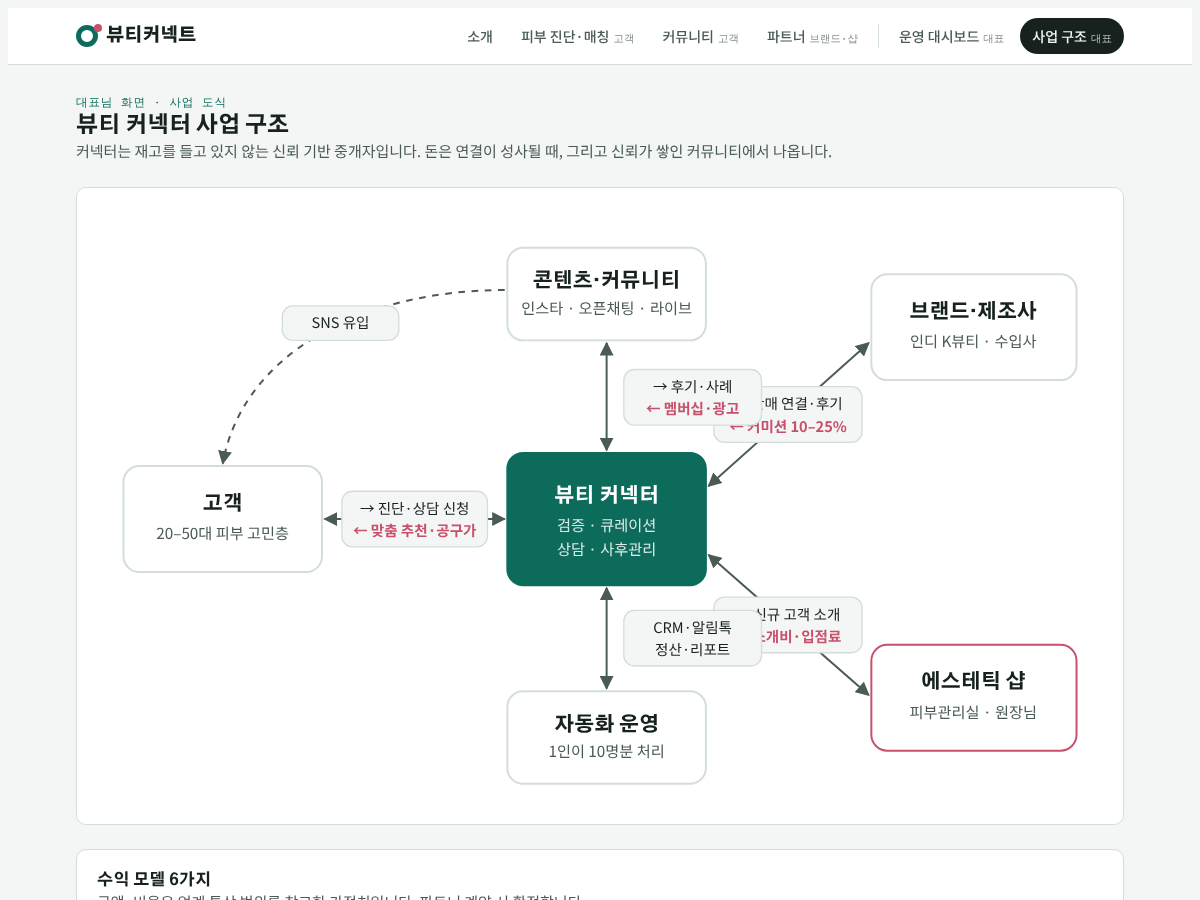
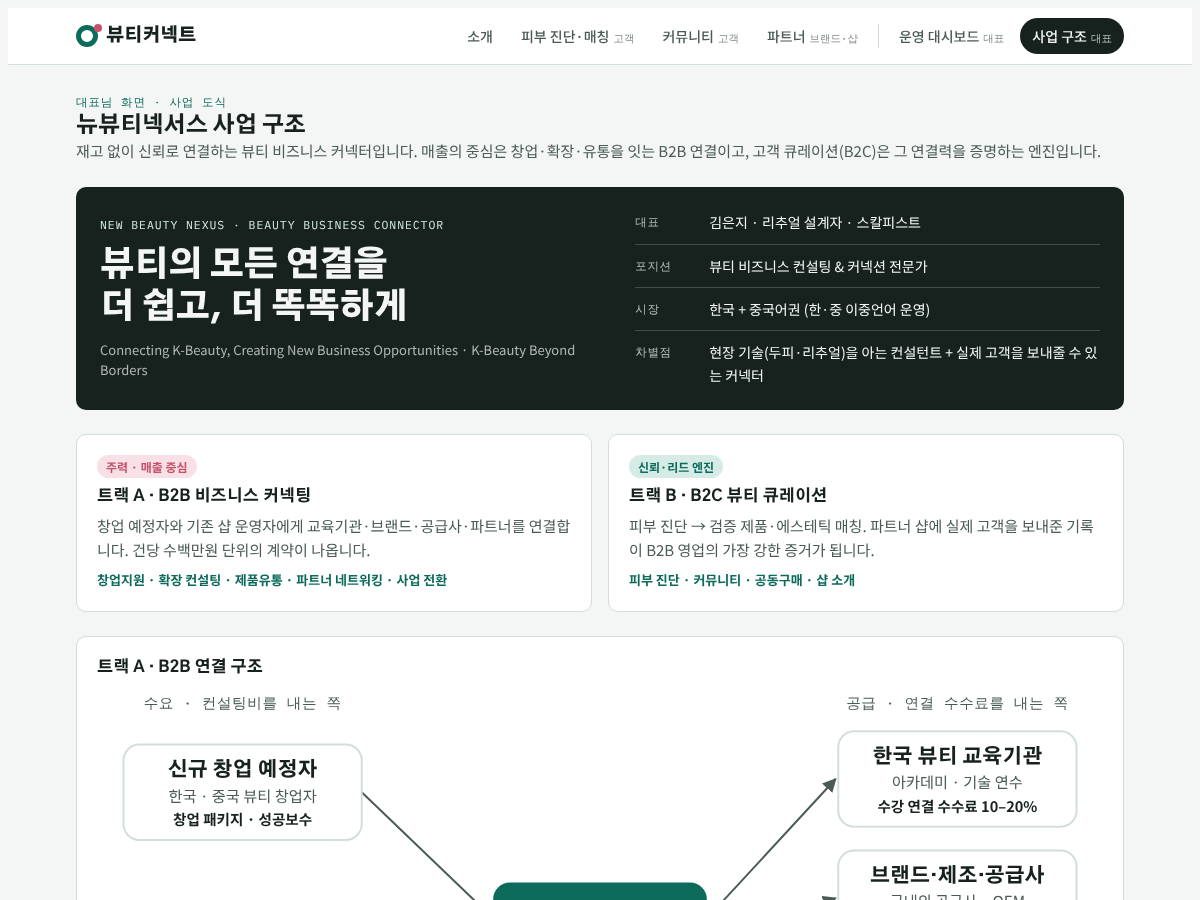
Add New Beauty Nexus B2B planning: brand, two-track model, service lines, China track
- Business model tab: brand band, B2B connection diagram, five service lines productized, B2B journey, signature scalp ritual program, China/global track, B2B revenue in simulator, roadmap and regulatory updates
- docs/business-plan.md: matching sections 0 and 10

Claude-Session: https://claude.ai/code/session_01TAYZkcKbPcZukKzyw7i4V3

diff --git a/mvp/index.html b/mvp/index.html
@@ -171,6 +171,23 @@ td select { padding: 6px 8px; width: auto; }
 .phase ul { margin: 0; padding-left: 18px; font-size: 14px; display: grid; gap: 4px; }
 .phase .kpi-line { font-family: var(--f-mono); font-size: 12px; color: var(--ink-2); border-top: 1px dashed var(--line); padding-top: 8px; }
 .risk li { margin-bottom: 6px; }
+.brandband { display: grid; grid-template-columns: 1.1fr 1fr; gap: 24px; padding: 24px; border-radius: var(--r); background: var(--ink); color: var(--bg); }
+.brandband .muted { color: color-mix(in srgb, var(--bg) 70%, var(--ink)); font-size: 13px; }
+.brandband .eyebrow { color: var(--accent-soft); }
+.bb-main { display: grid; gap: 10px; align-content: center; min-width: 0; }
+.bb-slogan { font-family: var(--f-display); font-weight: 900; font-size: clamp(24px, 3.4vw, 34px); line-height: 1.25; letter-spacing: -0.02em; text-wrap: balance; }
+.bb-facts { margin: 0; display: grid; gap: 10px; min-width: 0; }
+.bb-facts div { display: grid; grid-template-columns: 64px 1fr; gap: 10px; padding-bottom: 10px; border-bottom: 1px solid color-mix(in srgb, var(--bg) 20%, var(--ink)); }
+.bb-facts div:last-child { border-bottom: 0; padding-bottom: 0; }
+.bb-facts dt { font-family: var(--f-mono); font-size: 11.5px; letter-spacing: .06em; opacity: .7; padding-top: 2px; }
+.bb-facts dd { margin: 0; font-size: 14px; }
+.track { display: grid; gap: 8px; align-content: start; }
+.track .pill { justify-self: start; }
+.track .tk { font-size: 13px; font-weight: 700; color: var(--accent); }
+.colhd { font-family: var(--f-mono); font-size: 11px; fill: var(--ink-2); letter-spacing: .04em; }
+.n .mny { font-size: 11px; fill: var(--rose); font-weight: 700; font-family: var(--f-body); }
+.steps li .pill { margin-top: 8px; }
+@media (max-width: 760px) { .brandband { grid-template-columns: 1fr; padding: 18px; } }
 .risk { padding-left: 18px; margin: 0; }
 
 @media (max-width: 760px) {
@@ -372,11 +389,120 @@ td select { padding: 6px 8px; width: auto; }
 <section class="view" id="v-model" hidden>
   <div>
     <p class="eyebrow">대표님 화면 · 사업 도식</p>
-    <h2>뷰티 커넥터 사업 구조</h2>
-    <p class="muted">커넥터는 재고를 들고 있지 않는 신뢰 기반 중개자입니다. 돈은 연결이 성사될 때, 그리고 신뢰가 쌓인 커뮤니티에서 나옵니다.</p>
+    <h2>뉴뷰티넥서스 사업 구조</h2>
+    <p class="muted">재고 없이 신뢰로 연결하는 뷰티 비즈니스 커넥터입니다. 매출의 중심은 창업·확장·유통을 잇는 B2B 연결이고, 고객 큐레이션(B2C)은 그 연결력을 증명하는 엔진입니다.</p>
+  </div>
+
+  <div class="brandband">
+    <div class="bb-main">
+      <p class="eyebrow">NEW BEAUTY NEXUS · Beauty Business Connector</p>
+      <p class="bb-slogan">뷰티의 모든 연결을<br>더 쉽고, 더 똑똑하게</p>
+      <p class="muted">Connecting K-Beauty, Creating New Business Opportunities · K-Beauty Beyond Borders</p>
+    </div>
+    <dl class="bb-facts">
+      <div><dt>대표</dt><dd>김은지 · 리추얼 설계자 · 스칼피스트</dd></div>
+      <div><dt>포지션</dt><dd>뷰티 비즈니스 컨설팅 &amp; 커넥션 전문가</dd></div>
+      <div><dt>시장</dt><dd>한국 + 중국어권 (한·중 이중언어 운영)</dd></div>
+      <div><dt>차별점</dt><dd>현장 기술(두피·리추얼)을 아는 컨설턴트 + 실제 고객을 보내줄 수 있는 커넥터</dd></div>
+    </dl>
+  </div>
+
+  <div class="grid g2">
+    <div class="panel track">
+      <span class="pill r">주력 · 매출 중심</span>
+      <h3>트랙 A · B2B 비즈니스 커넥팅</h3>
+      <p class="muted">창업 예정자와 기존 샵 운영자에게 교육기관·브랜드·공급사·파트너를 연결합니다. 건당 수백만원 단위의 계약이 나옵니다.</p>
+      <p class="tk">창업지원 · 확장 컨설팅 · 제품유통 · 파트너 네트워킹 · 사업 전환</p>
+    </div>
+    <div class="panel track">
+      <span class="pill g">신뢰·리드 엔진</span>
+      <h3>트랙 B · B2C 뷰티 큐레이션</h3>
+      <p class="muted">피부 진단 → 검증 제품·에스테틱 매칭. 파트너 샵에 실제 고객을 보내준 기록이 B2B 영업의 가장 강한 증거가 됩니다.</p>
+      <p class="tk">피부 진단 · 커뮤니티 · 공동구매 · 샵 소개</p>
+    </div>
+  </div>
+
+  <div class="panel diagram" aria-label="B2B 연결 구조 도식">
+    <h3 style="margin-bottom:12px">트랙 A · B2B 연결 구조</h3>
+    <svg viewBox="0 0 760 390" role="img" aria-labelledby="b2b-t">
+      <title id="b2b-t">창업 예정자, 기존 샵, 전환 희망 샵을 교육기관, 브랜드·공급사, 에스테틱·병원 파트너, 해외 바이어·인수 희망자와 연결하는 구조</title>
+      <defs><marker id="ah2" viewBox="0 0 10 10" refX="9" refY="5" markerWidth="7" markerHeight="7" orient="auto-start-reverse"><path class="arrowhead" d="M0,0 L10,5 L0,10 z"/></marker></defs>
+      <text class="colhd" x="110" y="14" text-anchor="middle">수요 · 컨설팅비를 내는 쪽</text>
+      <text class="colhd" x="650" y="14" text-anchor="middle">공급 · 연결 수수료를 내는 쪽</text>
+      <g transform="translate(0,22)">
+        <line class="edge" x1="200" y1="56" x2="298" y2="150" marker-end="url(#ah2)"/>
+        <line class="edge" x1="200" y1="185" x2="298" y2="185" marker-end="url(#ah2)"/>
+        <line class="edge" x1="200" y1="314" x2="298" y2="220" marker-end="url(#ah2)"/>
+        <line class="edge" x1="462" y1="150" x2="558" y2="46" marker-start="url(#ah2)" marker-end="url(#ah2)"/>
+        <line class="edge" x1="462" y1="172" x2="558" y2="136" marker-start="url(#ah2)" marker-end="url(#ah2)"/>
+        <line class="edge" x1="462" y1="198" x2="558" y2="226" marker-start="url(#ah2)" marker-end="url(#ah2)"/>
+        <line class="edge" x1="462" y1="220" x2="558" y2="316" marker-start="url(#ah2)" marker-end="url(#ah2)"/>
+        <g class="n"><rect x="20" y="20" width="180" height="72" rx="12"/><text class="t" x="110" y="44" text-anchor="middle">신규 창업 예정자</text><text class="s" x="110" y="63" text-anchor="middle">한국 · 중국 뷰티 창업자</text><text class="mny" x="110" y="81" text-anchor="middle">창업 패키지 · 성공보수</text></g>
+        <g class="n"><rect x="20" y="149" width="180" height="72" rx="12"/><text class="t" x="110" y="173" text-anchor="middle">기존 샵·매장 운영자</text><text class="s" x="110" y="192" text-anchor="middle">신규 수익원이 필요한 원장님</text><text class="mny" x="110" y="210" text-anchor="middle">확장 자문 · 제품 도입</text></g>
+        <g class="n"><rect x="20" y="278" width="180" height="72" rx="12"/><text class="t" x="110" y="302" text-anchor="middle">전환·정리 고민 샵</text><text class="s" x="110" y="321" text-anchor="middle">운영난 · 업종 전환 · 폐업</text><text class="mny" x="110" y="339" text-anchor="middle">전환 진단 · 인수자 연결</text></g>
+        <g class="n c"><rect x="300" y="125" width="160" height="120" rx="12"/><text class="t" x="380" y="160" text-anchor="middle">NEW BEAUTY</text><text class="t" x="380" y="180" text-anchor="middle">NEXUS</text><text class="s" x="380" y="204" text-anchor="middle">진단 → 설계 → 연결</text><text class="s" x="380" y="222" text-anchor="middle">→ 90일 사후관리</text></g>
+        <g class="n"><rect x="560" y="10" width="180" height="72" rx="12"/><text class="t" x="650" y="34" text-anchor="middle">한국 뷰티 교육기관</text><text class="s" x="650" y="53" text-anchor="middle">아카데미 · 기술 연수</text><text class="mny" x="650" y="71" text-anchor="middle">수강 연결 수수료 10–20%</text></g>
+        <g class="n"><rect x="560" y="100" width="180" height="72" rx="12"/><text class="t" x="650" y="124" text-anchor="middle">브랜드·제조·공급사</text><text class="s" x="650" y="143" text-anchor="middle">국내외 공급사 · OEM</text><text class="mny" x="650" y="161" text-anchor="middle">유통 연결 3–8% · 대리점</text></g>
+        <g class="n"><rect x="560" y="190" width="180" height="72" rx="12"/><text class="t" x="650" y="214" text-anchor="middle">에스테틱·병원 파트너</text><text class="s" x="650" y="233" text-anchor="middle">협업 · 공동 프로모션</text><text class="mny" x="650" y="251" text-anchor="middle">제휴 연회비 (환자 소개비 X)</text></g>
+        <g class="n r"><rect x="560" y="280" width="180" height="72" rx="12"/><text class="t" x="650" y="304" text-anchor="middle">해외 바이어·인수자</text><text class="s" x="650" y="323" text-anchor="middle">중국 파트너 · 영업 인수 희망</text><text class="mny" x="650" y="341" text-anchor="middle">수출 중개 · 매칭 성공보수</text></g>
+      </g>
+    </svg>
+  </div>
+
+  <div class="panel rev" style="display:grid;gap:12px">
+    <div><h3>5대 서비스 라인 · 상품화</h3><p class="muted">명함의 다섯 가지 업무를 팔 수 있는 상품으로 바꿨습니다. 가격은 가정치이며 첫 3건의 계약으로 검증합니다.</p></div>
+    <div class="tablewrap">
+      <table>
+        <thead><tr><th>서비스</th><th>대상</th><th>상품 구성</th><th>가격 (가정)</th><th>자동화 포인트</th></tr></thead>
+        <tbody>
+          <tr><td><strong>뷰티 창업지원</strong></td><td>신규 창업 예정자 (한국·중국)</td><td>상권·콘셉트 진단, 사업계획, 교육기관·공급사 매칭, 오픈 런칭</td><td class="num">패키지 300–1,500만원 + 매칭 성공보수</td><td>사전 진단 설문 → 견적·제안서 초안 자동 생성</td></tr>
+          <tr><td><strong>사업 확장 컨설팅</strong></td><td>기존 샵 운영자</td><td>신규 아이템(두피·리추얼 등) 도입, 수익모델 재설계, 객단가·재방문 개선</td><td class="num">월 자문 50–150만원 (3개월~)</td><td>월간 KPI 리포트 자동 발송</td></tr>
+          <tr><td><strong>제품 유통 연결</strong></td><td>브랜드·공급사 ↔ 샵·해외 바이어</td><td>소싱, 샘플링, 납품·대리점 계약 중개</td><td class="num">거래액 3–8% 또는 대리점 계약 수수료</td><td>샘플 신청 → 발주 시트 → 정산 자동</td></tr>
+          <tr><td><strong>파트너 네트워킹</strong></td><td>에스테틱·병원·브랜드</td><td>정기 네트워킹 모임, 협업 매칭, 공동 프로모션</td><td class="num">연회비 30–100만원 + 행사 참가비</td><td>멤버 디렉토리 · 행사 신청·리마인드 자동</td></tr>
+          <tr><td><strong>사업 전환 지원</strong></td><td>운영난·전환 희망 샵</td><td>운영 진단, 업종 전환 설계, 영업 양도양수 희망자 연결</td><td class="num">진단 50만원~ + 연결 성공보수</td><td>매물·인수 희망자 DB 조건 자동 매칭</td></tr>
+        </tbody>
+      </table>
+    </div>
+  </div>
+
+  <div class="panel grid" style="gap:12px">
+    <div><h3>B2B 고객 여정</h3><p class="muted">배너 QR·위챗 문의부터 재계약까지. 초록 표시 단계는 사람 손 없이 돌아갑니다.</p></div>
+    <ol class="steps" style="grid-template-columns:repeat(auto-fit,minmax(140px,1fr))">
+      <li><h3>문의</h3><p class="muted">명함 QR · 위챗 · 인스타 → 문의폼</p><span class="pill g">자동 접수</span></li>
+      <li><h3>사전 진단</h3><p class="muted">예산·지역·경험·목표 10문항</p><span class="pill g">자동 발송</span></li>
+      <li><h3>진단 미팅 30분</h3><p class="muted">대표님 핵심 업무</p><span class="pill r">직접</span></li>
+      <li><h3>제안서·계약</h3><p class="muted">AI 초안 → 검토 → 전자계약·착수금</p><span class="pill g">반자동</span></li>
+      <li><h3>실행·연결</h3><p class="muted">교육기관·공급사·파트너 매칭</p><span class="pill r">직접</span></li>
+      <li><h3>90일 사후관리</h3><p class="muted">30·60·90일 체크인, 후기·추천 요청</p><span class="pill g">자동</span></li>
+    </ol>
+  </div>
+
+  <div class="grid g2" style="align-items:start">
+    <div class="panel grid" style="gap:10px">
+      <span class="pill r" style="justify-self:start">확장성 1순위</span>
+      <h3>시그니처 상품: K-두피 리추얼 프로그램</h3>
+      <p class="muted">대표님의 스칼피스트·리추얼 설계 전문성을 매뉴얼로 표준화해, 시간을 파는 컨설팅에서 복제되는 상품으로 바꿉니다.</p>
+      <ul class="risk">
+        <li><strong>샵 도입 패키지</strong>: 2일 교육 + 시술 매뉴얼 + 상담 스크립트 + 제품 키트 (도입비 + 키트 재구매)</li>
+        <li><strong>인증 테라피스트 과정</strong>: 온라인 이론 + 오프라인 실습, 수료 인증 (수강료)</li>
+        <li><strong>파트너샵 라이선스</strong>: 국내·중국 샵에 프로그램명·매뉴얼 사용권 (월 로열티)</li>
+        <li><strong>콘텐츠</strong>: 리추얼 시연 영상이 B2C 유입과 B2B 영업 자료를 동시에 해결</li>
+      </ul>
+    </div>
+    <div class="panel grid" style="gap:10px">
+      <span class="pill" style="justify-self:start">K-Beauty Beyond Borders</span>
+      <h3>중국·글로벌 트랙</h3>
+      <ul class="risk">
+        <li><strong>1단계 채널</strong>: 위챗 공식계정·샤오홍슈, 한·중 소개서와 문의 응대 템플릿 (이미 이중언어 배너 보유)</li>
+        <li><strong>2단계 한국 연수 투어</strong>: 교육기관 수강 + 샵 견학 + 공급사 미팅을 묶은 3–5일 패키지 (1인 300–600만원 가정)</li>
+        <li><strong>3단계 현지화</strong>: 중국 파트너샵 라이선스, K-두피 리추얼 키트 수출, 현지 에이전트와 수익 분배</li>
+        <li><strong>자동화</strong>: AI 번역으로 한·중 상담 기록·제안서 동시 작성, 시차 대응 자동응답</li>
+      </ul>
+    </div>
   </div>
 
   <div class="panel diagram" aria-label="생태계 도식">
+    <h3 style="margin-bottom:12px">트랙 B · B2C 큐레이션 구조</h3>
     <svg viewBox="0 0 760 450" role="img" aria-labelledby="eco-t">
       <title id="eco-t">고객, 커넥터, 브랜드, 에스테틱 샵, 콘텐츠, 자동화 운영 사이의 흐름</title>
       <defs>
@@ -407,7 +533,7 @@ td select { padding: 6px 8px; width: auto; }
   </div>
 
   <div class="panel rev" style="display:grid;gap:12px">
-    <div><h3>수익 모델 6가지</h3><p class="muted">금액·비율은 업계 통상 범위를 참고한 가정치입니다. 파트너 계약 시 확정합니다.</p></div>
+    <div><h3>트랙 B 수익 모델</h3><p class="muted">트랙 B(큐레이션) 기준입니다. 금액·비율은 업계 통상 범위를 참고한 가정치이며 파트너 계약 시 확정합니다.</p></div>
     <div class="tablewrap">
       <table>
         <thead><tr><th>수익원</th><th>누가 내나</th><th>구조 (가정)</th><th>시작 시점</th><th>자동화 포인트</th></tr></thead>
@@ -443,6 +569,8 @@ td select { padding: 6px 8px; width: auto; }
       <label class="f" for="s-rate">평균 수수료율 (%)<input type="text" inputmode="numeric" id="s-rate" value="15"></label>
       <label class="f" for="s-mem">유료 멤버 (명)<input type="text" inputmode="numeric" id="s-mem" value="80"></label>
       <label class="f" for="s-par">유료 파트너 (곳)<input type="text" inputmode="numeric" id="s-par" value="8"></label>
+      <label class="f" for="s-b2b">B2B 컨설팅·연결 계약 (건)<input type="text" inputmode="numeric" id="s-b2b" value="2"></label>
+      <label class="f" for="s-b2bfee">B2B 평균 계약액 (원)<input type="text" inputmode="numeric" id="s-b2bfee" value="3000000"></label>
     </div>
     <div class="kpis" id="sim-out"></div>
   </div>
@@ -451,17 +579,17 @@ td select { padding: 6px 8px; width: auto; }
     <h3>확장 로드맵</h3>
     <div class="road">
       <div class="phase"><span class="eyebrow">0단계 · 0–1개월</span><h3>노코드 검증</h3>
-        <ul><li>인스타 + 카카오 채널 개설</li><li>구글폼 진단 → 노션 CRM</li><li>브랜드 10개 · 샵 5곳 확보</li><li>오픈채팅 커뮤니티 시작</li></ul>
-        <p class="kpi-line">리드 100 · 매칭 20 · 후기 10</p></div>
+        <ul><li>한·중 소개서 + 명함 QR → 문의폼</li><li>구글폼 진단 → 노션 CRM</li><li>브랜드 10개 · 샵 5곳 · 교육기관 3곳 확보</li><li>창업·확장 무료 진단 미팅 10건</li></ul>
+        <p class="kpi-line">B2B 계약 2 · 리드 100 · 매칭 20</p></div>
       <div class="phase"><span class="eyebrow">1단계 · 2–4개월</span><h3>MVP 웹 + 자동화</h3>
-        <ul><li>이 MVP를 실서비스로 (공유 DB)</li><li>알림톡·정산 자동화</li><li>월 1회 공동구매</li><li>커미션·소개비 매출 시작</li></ul>
-        <p class="kpi-line">월 매출 300만 · 재구매 30%</p></div>
+        <ul><li>이 MVP를 실서비스로 (공유 DB)</li><li>제안서·계약·정산 자동화</li><li>K-두피 리추얼 매뉴얼화 · 파일럿 샵 2곳</li><li>월 1회 공동구매</li></ul>
+        <p class="kpi-line">월 매출 800만 · B2B 월 2건</p></div>
       <div class="phase"><span class="eyebrow">2단계 · 5–9개월</span><h3>커뮤니티 유료화</h3>
-        <ul><li>고객 멤버십 · 파트너 구독</li><li>월 2회 라이브 커머스</li><li>원장님 대상 마케팅 클래스</li><li>큐레이션 박스 정기배송</li></ul>
-        <p class="kpi-line">유료 멤버 300 · 파트너 20</p></div>
+        <ul><li>파트너 네트워킹 정기 모임 (분기)</li><li>리추얼 도입 패키지 · 인증 과정 판매</li><li>위챗·샤오홍슈 개설, 한국 연수 투어 1회</li><li>고객 멤버십 · 파트너 구독</li></ul>
+        <p class="kpi-line">도입 샵 10 · 파트너 20 · 투어 1회</p></div>
       <div class="phase"><span class="eyebrow">3단계 · 10–18개월</span><h3>네트워크 확장</h3>
-        <ul><li>커넥터 양성 과정 → 지역 커넥터 네트워크</li><li>PB 제품 (OEM/ODM)</li><li>K뷰티 해외 바이어 연결</li><li>트렌드 데이터 리포트 판매</li></ul>
-        <p class="kpi-line">커넥터 10명 · 지역 5곳</p></div>
+        <ul><li>중국 파트너샵 라이선스 · 리추얼 키트 수출</li><li>커넥터 양성 → 지역·해외 커넥터 네트워크</li><li>PB 제품 (OEM/ODM)</li><li>양도양수 매칭 DB 정식 운영</li></ul>
+        <p class="kpi-line">라이선스 샵 10 · 커넥터 10명</p></div>
     </div>
   </div>
 
@@ -473,6 +601,10 @@ td select { padding: 6px 8px; width: auto; }
       <li><strong>추천·보증 표시</strong>: 커미션·협찬이 있는 콘텐츠는 "광고", "제휴" 문구를 첫머리에 표시합니다 (공정위 지침).</li>
       <li><strong>통신판매</strong>: 공동구매를 직접 받으면 통신판매업 신고가 필요하고, 중개만 하면 통신판매중개자 고지 의무가 있습니다.</li>
       <li><strong>개인정보</strong>: 진단 결과를 샵에 넘길 때 제3자 제공 동의를 따로 받습니다. 이 MVP 폼에 문구를 넣어 두었습니다.</li>
+      <li><strong>병원 네트워킹</strong>: 병원과의 제휴·창업 컨설팅·제품 공급은 가능하지만, 환자를 보내고 건당 소개비를 받는 구조는 피합니다. 중국 고객의 한국 시술 연결을 하려면 외국인환자 유치업 등록이 먼저입니다.</li>
+      <li><strong>중국 수출</strong>: 중국에 화장품을 팔려면 NMPA 등록·비안(备案)이 필요합니다. 등록을 마친 브랜드부터 연결합니다.</li>
+      <li><strong>양도양수 연결</strong>: 영업(시설·고객·노하우) 양도 중개는 가능하지만, 상가 임대차·부동산 중개에 해당하는 부분은 공인중개사와 협업합니다.</li>
+      <li><strong>컨설팅 계약</strong>: 성과 보장 문구를 쓰지 말고, 범위·착수금·성공보수 조건을 서면 계약으로 남깁니다. 해외 계약은 통화·분쟁 해결 조항을 넣습니다.</li>
     </ul>
   </div>
 </section>
@@ -697,17 +829,17 @@ td select { padding: 6px 8px; width: auto; }
   });
 
   /* ---------- 시뮬레이터 ---------- */
-  const simIds = ['s-leads', 's-conv', 's-aov', 's-rate', 's-mem', 's-par'];
+  const simIds = ['s-leads', 's-conv', 's-aov', 's-rate', 's-mem', 's-par', 's-b2b', 's-b2bfee'];
   function sim() {
     const v = Object.fromEntries(simIds.map(id => [id, Math.max(0, parseFloat(String($('#' + id).value).replace(/[^0-9.]/g, '')) || 0)]));
     const deals = v['s-leads'] * v['s-conv'] / 100;
     const comm = deals * v['s-aov'] * v['s-rate'] / 100;
     const mem = v['s-mem'] * 9900;
     const par = v['s-par'] * 99000;
-    const total = comm + mem + par;
-    $('#sim-out').innerHTML = [
-      ['성사 건수', Math.round(deals) + '건'], ['수수료 매출', man(comm)], ['멤버십 매출', man(mem)], ['파트너 구독', man(par)], ['월 합계', man(total)]
-    ].map(([l, x], i) => `<div class="kpi"${i === 4 ? ' style="border-color:var(--rose)"' : ''}><div class="l">${l}</div><div class="v"${i === 4 ? ' style="color:var(--rose)"' : ''}>${x}</div></div>`).join('');
+    const b2b = v['s-b2b'] * v['s-b2bfee'];
+    const total = comm + mem + par + b2b;
+    const rows = [['B2B 컨설팅·연결', man(b2b)], ['큐레이션 수수료', man(comm)], ['멤버십 매출', man(mem)], ['파트너 구독', man(par)], ['월 합계', man(total)]];
+    $('#sim-out').innerHTML = rows.map(([l, x], i) => `<div class="kpi"${i === 4 ? ' style="border-color:var(--rose)"' : ''}><div class="l">${l}</div><div class="v"${i === 4 ? ' style="color:var(--rose)"' : ''}>${x}</div></div>`).join('');
   }
   if (STAFF) simIds.forEach(id => $('#' + id).addEventListener('input', sim));
 

diff --git a/public/index.html b/public/index.html
@@ -177,6 +177,23 @@ td select { padding: 6px 8px; width: auto; }
 .phase ul { margin: 0; padding-left: 18px; font-size: 14px; display: grid; gap: 4px; }
 .phase .kpi-line { font-family: var(--f-mono); font-size: 12px; color: var(--ink-2); border-top: 1px dashed var(--line); padding-top: 8px; }
 .risk li { margin-bottom: 6px; }
+.brandband { display: grid; grid-template-columns: 1.1fr 1fr; gap: 24px; padding: 24px; border-radius: var(--r); background: var(--ink); color: var(--bg); }
+.brandband .muted { color: color-mix(in srgb, var(--bg) 70%, var(--ink)); font-size: 13px; }
+.brandband .eyebrow { color: var(--accent-soft); }
+.bb-main { display: grid; gap: 10px; align-content: center; min-width: 0; }
+.bb-slogan { font-family: var(--f-display); font-weight: 900; font-size: clamp(24px, 3.4vw, 34px); line-height: 1.25; letter-spacing: -0.02em; text-wrap: balance; }
+.bb-facts { margin: 0; display: grid; gap: 10px; min-width: 0; }
+.bb-facts div { display: grid; grid-template-columns: 64px 1fr; gap: 10px; padding-bottom: 10px; border-bottom: 1px solid color-mix(in srgb, var(--bg) 20%, var(--ink)); }
+.bb-facts div:last-child { border-bottom: 0; padding-bottom: 0; }
+.bb-facts dt { font-family: var(--f-mono); font-size: 11.5px; letter-spacing: .06em; opacity: .7; padding-top: 2px; }
+.bb-facts dd { margin: 0; font-size: 14px; }
+.track { display: grid; gap: 8px; align-content: start; }
+.track .pill { justify-self: start; }
+.track .tk { font-size: 13px; font-weight: 700; color: var(--accent); }
+.colhd { font-family: var(--f-mono); font-size: 11px; fill: var(--ink-2); letter-spacing: .04em; }
+.n .mny { font-size: 11px; fill: var(--rose); font-weight: 700; font-family: var(--f-body); }
+.steps li .pill { margin-top: 8px; }
+@media (max-width: 760px) { .brandband { grid-template-columns: 1fr; padding: 18px; } }
 .risk { padding-left: 18px; margin: 0; }
 
 @media (max-width: 760px) {
@@ -562,17 +579,17 @@ td select { padding: 6px 8px; width: auto; }
   });
 
   /* ---------- 시뮬레이터 ---------- */
-  const simIds = ['s-leads', 's-conv', 's-aov', 's-rate', 's-mem', 's-par'];
+  const simIds = ['s-leads', 's-conv', 's-aov', 's-rate', 's-mem', 's-par', 's-b2b', 's-b2bfee'];
   function sim() {
     const v = Object.fromEntries(simIds.map(id => [id, Math.max(0, parseFloat(String($('#' + id).value).replace(/[^0-9.]/g, '')) || 0)]));
     const deals = v['s-leads'] * v['s-conv'] / 100;
     const comm = deals * v['s-aov'] * v['s-rate'] / 100;
     const mem = v['s-mem'] * 9900;
     const par = v['s-par'] * 99000;
-    const total = comm + mem + par;
-    $('#sim-out').innerHTML = [
-      ['성사 건수', Math.round(deals) + '건'], ['수수료 매출', man(comm)], ['멤버십 매출', man(mem)], ['파트너 구독', man(par)], ['월 합계', man(total)]
-    ].map(([l, x], i) => `<div class="kpi"${i === 4 ? ' style="border-color:var(--rose)"' : ''}><div class="l">${l}</div><div class="v"${i === 4 ? ' style="color:var(--rose)"' : ''}>${x}</div></div>`).join('');
+    const b2b = v['s-b2b'] * v['s-b2bfee'];
+    const total = comm + mem + par + b2b;
+    const rows = [['B2B 컨설팅·연결', man(b2b)], ['큐레이션 수수료', man(comm)], ['멤버십 매출', man(mem)], ['파트너 구독', man(par)], ['월 합계', man(total)]];
+    $('#sim-out').innerHTML = rows.map(([l, x], i) => `<div class="kpi"${i === 4 ? ' style="border-color:var(--rose)"' : ''}><div class="l">${l}</div><div class="v"${i === 4 ? ' style="color:var(--rose)"' : ''}>${x}</div></div>`).join('');
   }
   if (STAFF) simIds.forEach(id => $('#' + id).addEventListener('input', sim));
 

diff --git a/docs/business-plan.md b/docs/business-plan.md
@@ -1,9 +1,24 @@
-# 뷰티커넥트 사업 구조 · MVP · 확장 계획
+# 뉴뷰티넥서스(NEW BEAUTY NEXUS) 사업 구조 · MVP · 확장 계획
 
 > 대상: 화장품·에스테틱 분야에서 좋은 제품·서비스를 고객과 연결하는 "뷰티 커넥터"를 준비하는 대표님
 > 전제: 1인 운영. 사람이 할 일은 **검증·상담·관계**만 남기고 나머지는 자동화한다.
 
 ---
+
+## 0. 브랜드 (명함·배너 반영)
+
+| 항목 | 내용 |
+|---|---|
+| 브랜드 | NEW BEAUTY NEXUS · Beauty Business Connector |
+| 슬로건 | "뷰티의 모든 연결을 더 쉽고, 더 똑똑하게" · Connecting K-Beauty, Creating New Business Opportunities · K-Beauty Beyond Borders |
+| 대표 | 김은지 · 리추얼 설계자 · 스칼피스트 · 뷰티 비즈니스 컨설팅 & 커넥션 전문가 |
+| 시장 | 한국 + 중국어권 (한·중 이중언어 운영) |
+| 차별점 | 현장 기술(두피·리추얼)을 아는 컨설턴트 + 실제 고객을 보내줄 수 있는 커넥터 |
+
+### 2트랙 구조
+
+- **트랙 A · B2B 비즈니스 커넥팅 (주력)**: 창업 예정자·기존 샵 운영자 ↔ 교육기관·브랜드·공급사·파트너·해외 바이어. 건당 수백만원 단위 계약.
+- **트랙 B · B2C 뷰티 큐레이션 (신뢰·리드 엔진)**: 피부 진단 → 검증 제품·에스테틱 매칭. 파트너 샵에 실제 고객을 보내준 기록이 B2B 영업의 증거가 된다. 아래 1–9장은 트랙 B 중심이며, 트랙 A는 10장에 정리했다.
 
 ## 1. 한 줄 정의
 
@@ -141,3 +156,85 @@ flowchart TB
 2. 브랜드 3곳·샵 2곳에 파트너 제안 (입점 기준·수수료안 전달)
 3. 노션 CRM 템플릿 + Zapier 신규 리드 알림 1개 연결
 4. 인스타 첫 콘텐츠 3개: 커넥터 소개 / 검증 기준 / 첫 사용기
+
+---
+
+## 10. 트랙 A · B2B 비즈니스 커넥팅 (뉴뷰티넥서스 주력)
+
+### 연결 구조
+
+```mermaid
+flowchart LR
+    subgraph D[수요 · 컨설팅비를 내는 쪽]
+      D1[신규 창업 예정자<br/>한국·중국]
+      D2[기존 샵·매장 운영자]
+      D3[전환·정리 고민 샵]
+    end
+    N((NEW BEAUTY NEXUS<br/>진단→설계→연결→90일 사후관리))
+    subgraph S[공급 · 연결 수수료를 내는 쪽]
+      S1[한국 뷰티 교육기관]
+      S2[브랜드·제조·공급사]
+      S3[에스테틱·병원 파트너]
+      S4[해외 바이어·인수 희망자]
+    end
+    D1 -- 창업 패키지·성공보수 --> N
+    D2 -- 확장 자문·제품 도입 --> N
+    D3 -- 전환 진단·인수자 연결 --> N
+    N <-- 수강 연결 10–20% --> S1
+    N <-- 유통 연결 3–8%·대리점 --> S2
+    N <-- 제휴 연회비 --> S3
+    N <-- 수출 중개·성공보수 --> S4
+```
+
+### 5대 서비스 라인 상품화 (가격은 가정치, 첫 3건으로 검증)
+
+| 서비스 | 대상 | 상품 구성 | 가격 (가정) | 자동화 포인트 |
+|---|---|---|---|---|
+| 뷰티 창업지원 | 신규 창업 예정자 (한국·중국) | 상권·콘셉트 진단, 사업계획, 교육기관·공급사 매칭, 오픈 런칭 | 패키지 300–1,500만원 + 매칭 성공보수 | 사전 진단 설문 → 견적·제안서 초안 자동 |
+| 사업 확장 컨설팅 | 기존 샵 운영자 | 신규 아이템(두피·리추얼) 도입, 수익모델 재설계, 객단가·재방문 개선 | 월 자문 50–150만원 (3개월~) | 월간 KPI 리포트 자동 |
+| 제품 유통 연결 | 브랜드·공급사 ↔ 샵·해외 바이어 | 소싱, 샘플링, 납품·대리점 계약 중개 | 거래액 3–8% 또는 대리점 계약 수수료 | 샘플 신청 → 발주 → 정산 자동 |
+| 파트너 네트워킹 | 에스테틱·병원·브랜드 | 정기 모임, 협업 매칭, 공동 프로모션 | 연회비 30–100만원 + 행사 참가비 | 멤버 디렉토리·행사 리마인드 자동 |
+| 사업 전환 지원 | 운영난·전환 희망 샵 | 운영 진단, 업종 전환 설계, 영업 양도양수 희망자 연결 | 진단 50만원~ + 연결 성공보수 | 매물·인수 희망자 DB 자동 매칭 |
+
+### B2B 고객 여정
+
+| 단계 | 내용 | 방식 |
+|---|---|---|
+| 1 문의 | 명함 QR · 위챗 · 인스타 → 문의폼 | 자동 접수 |
+| 2 사전 진단 | 예산·지역·경험·목표 10문항 | 자동 발송 |
+| 3 진단 미팅 30분 | 대표님 핵심 업무 | 직접 |
+| 4 제안서·계약 | AI 초안 → 검토 → 전자계약·착수금 | 반자동 |
+| 5 실행·연결 | 교육기관·공급사·파트너 매칭 | 직접 |
+| 6 90일 사후관리 | 30·60·90일 체크인, 후기·추천 요청 | 자동 |
+
+### 시그니처 상품: K-두피 리추얼 프로그램 (확장성 1순위)
+
+대표님의 스칼피스트·리추얼 설계 전문성을 매뉴얼로 표준화해, **시간을 파는 컨설팅 → 복제되는 상품**으로 전환한다.
+
+- 샵 도입 패키지: 2일 교육 + 시술 매뉴얼 + 상담 스크립트 + 제품 키트 (도입비 + 키트 재구매)
+- 인증 테라피스트 과정: 온라인 이론 + 오프라인 실습 (수강료)
+- 파트너샵 라이선스: 국내·중국 샵에 프로그램명·매뉴얼 사용권 (월 로열티)
+- 콘텐츠: 리추얼 시연 영상이 B2C 유입과 B2B 영업 자료를 동시에 해결
+
+### 중국·글로벌 트랙 (K-Beauty Beyond Borders)
+
+1. **채널**: 위챗 공식계정·샤오홍슈, 한·중 소개서, 문의 응대 템플릿 (이중언어 배너 보유)
+2. **한국 연수 투어**: 교육기관 수강 + 샵 견학 + 공급사 미팅 3–5일 패키지 (1인 300–600만원 가정)
+3. **현지화**: 중국 파트너샵 라이선스, 리추얼 키트 수출, 현지 에이전트 수익 분배
+4. **자동화**: AI 번역으로 한·중 상담 기록·제안서 동시 작성, 시차 대응 자동응답
+
+### 로드맵 반영 (7장 갱신)
+
+| 단계 | 추가 실행 | KPI |
+|---|---|---|
+| 0 (0–1개월) | 한·중 소개서 + 명함 QR 문의폼, 교육기관 3곳 확보, 무료 진단 미팅 10건 | B2B 계약 2 |
+| 1 (2–4개월) | 제안서·계약·정산 자동화, K-두피 리추얼 매뉴얼화·파일럿 샵 2곳 | 월 매출 800만 · B2B 월 2건 |
+| 2 (5–9개월) | 분기 네트워킹 모임, 리추얼 도입 패키지·인증 과정, 위챗·샤오홍슈, 연수 투어 1회 | 도입 샵 10 · 투어 1회 |
+| 3 (10–18개월) | 중국 파트너샵 라이선스·키트 수출, 해외 커넥터 네트워크, 양도양수 DB 정식 운영 | 라이선스 샵 10 |
+
+### 추가 규제·리스크
+
+- **병원 네트워킹**: 제휴·창업 컨설팅·제품 공급은 가능, 환자 소개 건당 수수료는 피한다. 중국 고객의 한국 시술 연결은 **외국인환자 유치업 등록** 후 진행.
+- **중국 수출**: 화장품은 NMPA 등록·비안(备案) 필요. 등록 완료 브랜드부터 연결.
+- **양도양수**: 영업 양도 중개는 가능, 상가 임대차·부동산 중개 해당 부분은 공인중개사와 협업.
+- **컨설팅 계약**: 성과 보장 문구 금지, 범위·착수금·성공보수 서면화, 해외 계약은 통화·분쟁 조항 포함.
